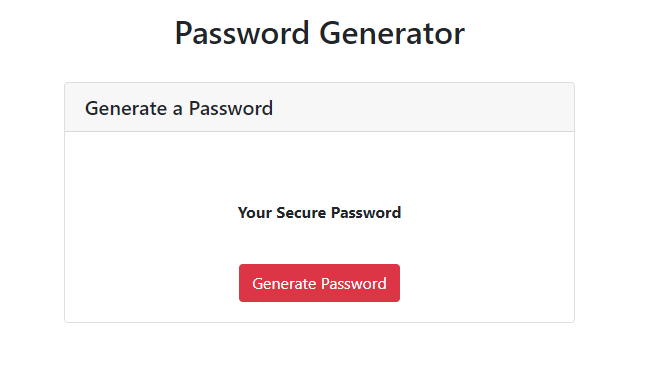
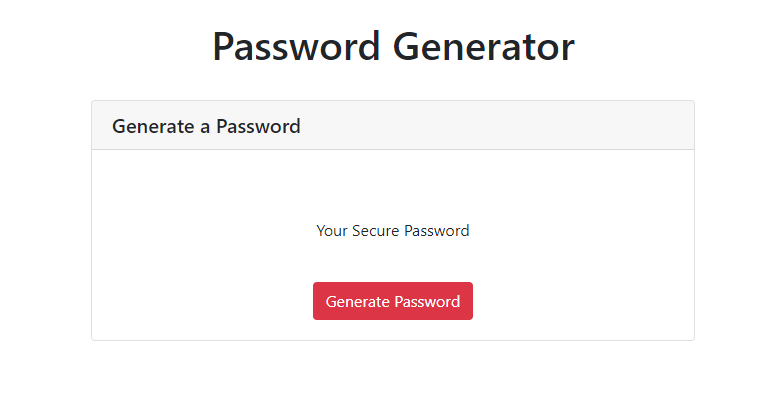
reverting 3 commits accidently pushed to the master, reinstating master to pull request #76

diff --git a/index.html b/index.html
@@ -16,7 +16,6 @@
 			crossorigin="anonymous"
 		/>
 	</head>
-
 	<!-- Start body here -->
 	<body class="m-4">
 		<!-- Start main page container -->
@@ -26,7 +25,7 @@
 			<div class="row">
 				<div class="col-md-4"></div>
 				<div class="col-md-4">
-					<h2 class="page-header text-center mt-4">Password Generator</h2>
+					<h1 class="page-header text-center mt-4">Password Generator</h1>
 				</div>
 				<div class="col-md-4"></div>
 			</div>
@@ -36,11 +35,9 @@
 				<div class="col-md-4"></div>
 				<div class="col-md-4">
 					<div class="card">
-						<h5 class="card-header">
-							Generate a Password
-						</h5>
+						<h5 class="card-header">Generate a Password</h5>
 						<div class="card-body mt-4 text-center">
-							<p class="card-text font-weight-bold mt-4" id="securepass">
+							<p class="card-text mt-4" id="securepass">
 								Your Secure Password
 							</p>
 							<a href="#" class="btn btn-danger mt-4" onclick="prompts()"
